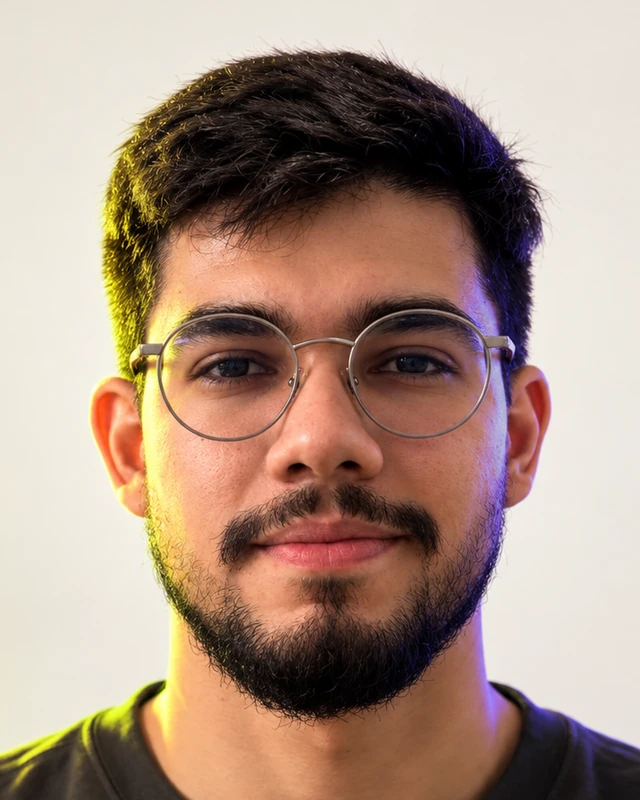
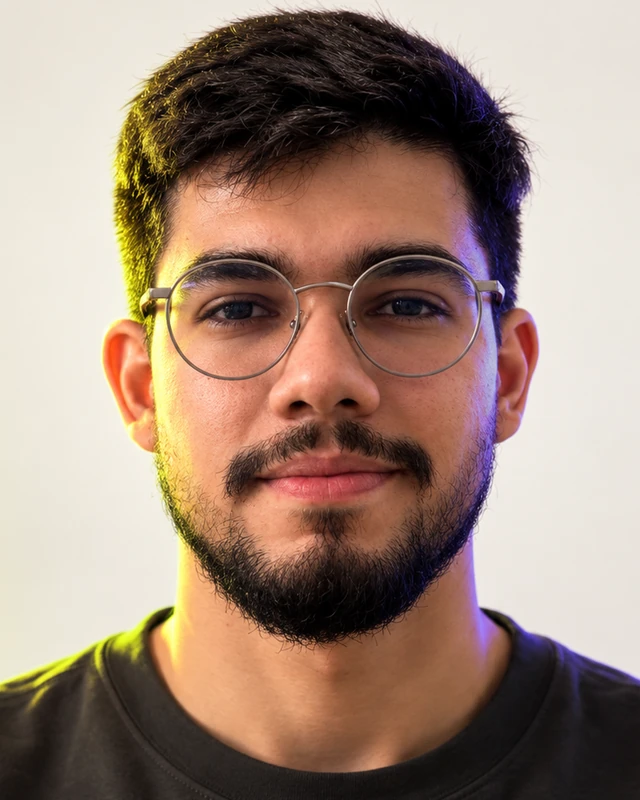
Correct replacement portrait framing and rename team section

diff --git a/index.html b/index.html
@@ -517,7 +517,7 @@
       <div class="shell">
         <div class="section-head">
           <p class="kicker" data-i18n="company.kicker">Company / Szero</p>
-          <h2 id="founders-title" data-i18n="founders.title">Founders</h2>
+          <h2 id="founders-title" data-i18n="founders.title">Who we are</h2>
         </div>
         <div class="founder-grid">
           <a class="founder-link" href="https://www.linkedin.com/in/luanagbmartins/" target="_blank" rel="noopener noreferrer" aria-label="Luana Martins — LinkedIn">
@@ -590,7 +590,7 @@
         <li><a href="#principles" data-i18n="nav.principles">Principles</a></li>
         <li><a href="#company" data-i18n="nav.company">Company</a></li>
         <li><a href="#contact" data-i18n="nav.contact">Contact</a></li>
-        <li><a href="#founders" data-i18n="founders.title">Founders</a></li>
+        <li><a href="#founders" data-i18n="founders.title">Who we are</a></li>
         <li><a href="mailto:hello@szero.io">hello@szero.io</a></li>
       </ul>
       <div class="footer-end">
@@ -707,7 +707,7 @@
       "company.title": "A inteligência começa em S0.",
       "company.p1": "A Szero é uma empresa de inteligência aplicada. Construímos o sistema completo em torno de uma decisão: como ela é enquadrada, o método que decide, o software que age, a avaliação que conquista confiança e o ciclo que torna a próxima decisão melhor.",
       "company.p2": "Nosso propósito é ajudar pessoas e máquinas a decidir melhor, ampliar a autonomia humana e acelerar o avanço científico.",
-      "founders.title": "Fundadores",
+      "founders.title": "Quem somos",
       "manifesto.kicker": "Manifesto / A partir de S0",
       "manifesto.lead": "Todo sistema capaz já foi um estado em branco. S0 é um problema que vale a pena resolver, sem nada construído ainda para ele. Tudo depois de S0 é conquistado: um método escolhido, um sistema conectado, uma avaliação superada, um resultado que ensinou algo.",
       "manifesto.lines": "Enquadrar.<br>Decidir.<br>Agir.<br>Verificar.<br>Aprender.",

diff --git a/README.md b/README.md
@@ -12,7 +12,7 @@ There is no build step or package dependency.
 - `brand/README.md` and `brand/palette.json` define the chart palette.
 - `CNAME` identifies the production domain for GitHub Pages.
 
-The page order is Hero, How we work, What we build, Why Szero, Principles, Company, Founders, and Contact.
+The page order is Hero, How we work, What we build, Why Szero, Principles, Company, Who we are, and Contact.
 The footer links to each named section. Contact links open the visitor's email application.
 
 ```mermaid
@@ -94,11 +94,12 @@ The supplied filenames establish the name-to-photo mapping:
 
 Bruno's WebP preserves the full source frame after proportional resizing to 640 pixels wide.
 The other three WebP assets use tighter 4:5 crops from the supplied originals, with Bruno as the face-size reference.
+Bryan's asset uses the replacement `foto_bryan.png` supplied in `foto_bryan.png.zip`. Its crop is specific to that photograph.
 Crop coordinates use source pixels as `(left, top, right, bottom)`, with exclusive right and bottom edges:
 
 | Name | Source dimensions | Crop coordinates |
 | --- | --- | --- |
-| Bryan de Oliveira | 1122 × 1402 | `(190, 45, 910, 945)` |
+| Bryan de Oliveira | 1122 × 1402 | `(170, 90, 930, 1040)` |
 | Luana Martins | 1086 × 1448 | `(85, 65, 805, 965)` |
 | Murilo Lopes | 1122 × 1402 | `(196, 85, 884, 945)` |
 
